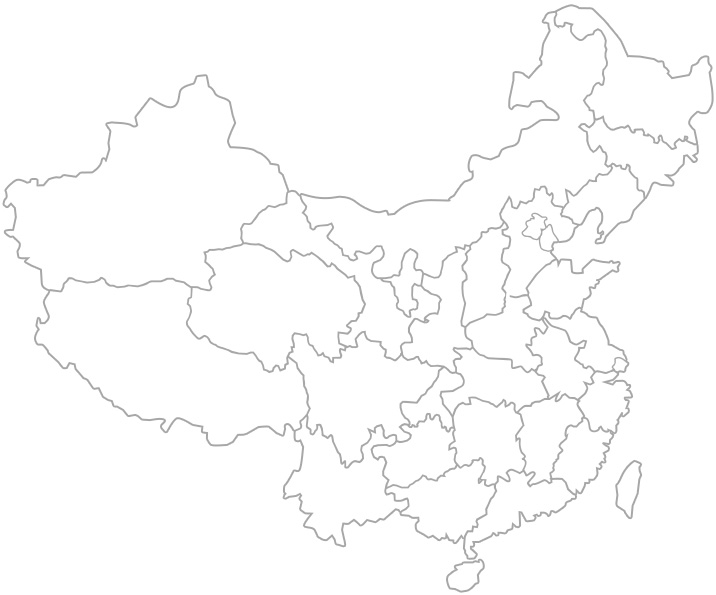
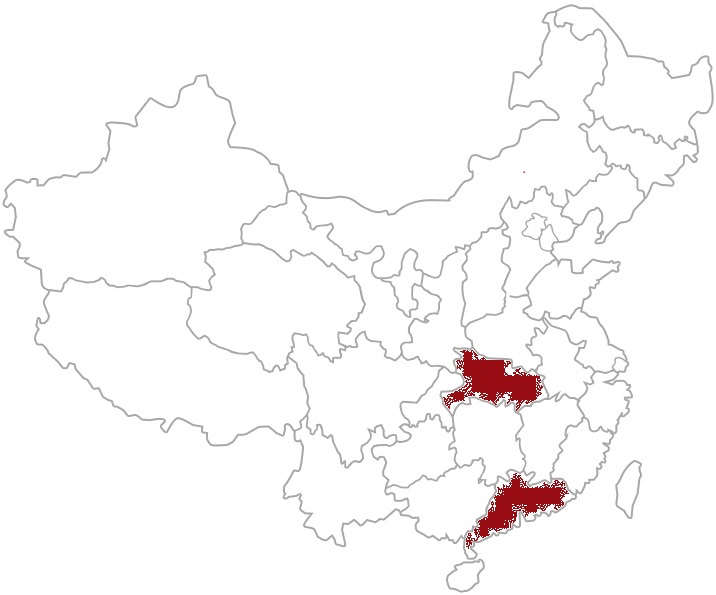
3130559

Changed region(s): [[0.6145, 0.5748, 0.7682, 0.6958], [0.6453, 0.7866, 0.7989, 0.9378]]

diff --git a/疫情统计可视化的实现/index.html b/疫情统计可视化的实现/index.html
@@ -17,8 +17,8 @@
 
 </head> 
 <body>
-	<center>
-	<table width="450" height="180">
+
+	<table id="table1" align="center" width="450" height="180"><center>
 		<tr>
 		  <td align="center">现有确诊</td>
 		  <td align="center">现有疑似</td>
@@ -33,58 +33,76 @@
 			<td align="center">昨日-1609</td>
 			<td align="center">昨日+99</td>
 			<td align="center">昨日-248</td>
-		</tr>
+		</tr></center>
+	</table>
+	<table id="table2" align="center" width="450" height="180"><center>
 		<tr>
 			<td align="center">累计确诊</td>
 			<td align="center">累计治愈</td>
 			<td align="center">累计死亡</td>
 		</tr>
 		<tr>
-			<td align="center">100</td>
-			<td align="center">200</td>
-			<td align="center">300</td>
+			<td align="center"><font size="5" color="red">80814</font></td>
+			<td align="center"><font size="5" color="sky blue">55477</font></td>
+			<td align="center"><font size="5" color="black">3073</font></td>
 		</tr>
 		<tr>
-		  <td align="center">400</td>
-		  <td align="center">500</td>
-		  <td align="center">600</td>
-		</tr>
+		  <td align="center">昨日+103</td>
+		  <td align="center">昨日+1684</td>
+		  <td align="center">昨日+28</td>
+		</tr></center>
 	</table>
-</center>
+	<script type="text/javascript">
+		function toggle(id){
+	     var tb1=document.getElementById("table1");
+		 var tb2=document.getElementById("table2");
+		 if(id=="table1"){
+			tb1.style.display='block';
+			tb2.style.display='none';
+		 }
+		 if(id=="table2"){
+			tb2.style.display='block';
+			tb1.style.display='none';
+		 }
+		}
+	</script><center>
+	<input type="button" value="现有确诊" style="height:60px;width:600px;" onClick="toggle('table1')"/>
+	<input type="button" value="累计确诊" style="height:60px;width:600px;"onClick="toggle('table2')"/>
+    </center>
 <div class="map">
 	<img src="images/map.jpg" width="716" height="595" usemap="#Map" border="0">
-	<div class="city"><div class="citybg" style="background:url(images/anhui.png) no-repeat 0 0; top:314px; left:523px; width:75px; height:90px;"></div><a style=" position:absolute; top:355px; left:545px; z-index:10;" href="index.html">安徽</a></div>
-	<div class="city"><div class="citybg" style="background:url(images/neimeng.png) no-repeat 0 0;  top:9px; left:296px; width:318px; height:272px; display:block;"></div><a style="position:absolute; top:211px; left:424px; z-index:10;" href="index.html">内蒙</a></div>
-	<div class="city"><div class="citybg" style=" background:url(images/heilongjiang.png) no-repeat 0 0; top:1px; left:550px; width:165px; height:151px;"></div><a style="position:absolute;top:81px; left:624px; z-index:10;" href="index.html">黑龙江</a></div>
-	<div class="city"><div class="citybg" style=" background:url(images/xinjiang.png) no-repeat 0 0; top:73px; left:0px; width:292px; height:223px;"></div><a style="position:absolute;top:211px; left:124px; z-index:10;" href="index.html">新疆</a></div>
-	<div class="city"><div class="citybg" style=" background:url(images/xizang.png) no-repeat 0 0; top:275px; left:31px; width:281px; height:175px;"></div><a style="position:absolute;top:361px; left:145px; z-index:10;" href="index.html">西藏</a></div>
-	<div class="city"><div class="citybg" style=" background:url(images/qinghai.png) no-repeat 0 0; top:240px; left:182px; width:185px; height:135px;"></div><a style="position:absolute;top:300px; left:254px; z-index:10;" href="index.html">青海</a></div>
-	<div class="city"><div class="citybg" style=" background:url(images/gansu.png) no-repeat 0 0; top:187px; left:236px; width:207px; height:177px;"></div><a style="position:absolute;top:310px; left:364px; z-index:10;" href="index.html">甘肃</a></div>
-	<div class="city"><div class="citybg" style=" background:url(images/ningxia.png) no-repeat 0 0; top:245px; left:379px; width:49px; height:75px;"></div><a style="position:absolute;top:272px; left:390px; z-index:10;" href="index.html">宁夏</a></div>
-	<div class="city"><div class="citybg" style=" background:url(images/shanghai.png) no-repeat 0 0; top:354px; left:610px; width:23px; height:22px;"></div><a style="position:absolute;top:352px; left:615px;; z-index:10;" href="index.html">上海</a></div>
-	<div class="city"><div class="citybg" style=" background:url(images/liaoning.png) no-repeat 0 0; top:161px; left:557px; width:91px; height:87px;"></div><a style="position:absolute;top:180px; left:600px; z-index:10;" href="index.html">辽宁</a></div>
-	<div class="city"><div class="citybg" style=" background:url(images/guangdong.png) no-repeat 0 0; top:470px; left:464px; width:111px; height:88px;"></div><a style="position:absolute;top:490px; left:500px; z-index:10;" href="index.html">广东</a></div>
-	<div class="city"><div class="citybg" style=" background:url(images/guangxi.png) no-repeat 0 0; top:454px; left:382px; width:118px; height:92px;"></div><a style="position:absolute;top:488px; left:432px; z-index:10;" href="index.html">广西</a></div>
-	<div class="city"><div class="citybg" style=" background:url(images/henan.png) no-repeat 0 0; top:288px; left:461px; width:118px; height:92px;"></div><a style="position:absolute;top:320px; left:490px; z-index:10;" href="index.html">河南</a></div>
-	<div class="city"><div class="citybg" style=" background:url(images/shanxi.png) no-repeat 0 0; top:242px; left:396px; width:79px; height:134px;"></div><a style="position:absolute;top:321px; left:430px; z-index:10;" href="index.html">陕西</a></div>
-	<div class="city"><div class="citybg" style=" background:url(images/shanxi2.png) no-repeat 0 0; top:219px; left:458px; width:56px; height:112px;"></div><a style="position:absolute;top:271px; left:470px; z-index:10;" href="index.html">山西</a></div>
-	<div class="city"><div class="citybg" style=" background:url(images/hebei.png) no-repeat 0 0; top:184px; left:497px; width:85px; height:118px;"></div><a style="position:absolute;top:247px; left:508px; z-index:10;" href="index.html">河北</a></div>
-	<div class="city"><div class="citybg" style=" background:url(images/jilin.png) no-repeat 0 0; top:113px; left:575px; width:125px; height:88px;"></div><a style="position:absolute;top:150px; left:642px; z-index:10;" href="index.html">吉林</a></div>
-	<div class="city"><div class="citybg" style=" background:url(images/beijing.png) no-repeat 0 0; top:210px; left:512px; width:50px; height:38px;"></div><a style="position:absolute;top:215px; left:515px; z-index:10;" href="index.html">北京</a></div>
-	<div class="city"><div class="citybg" style=" background:url(images/tianjin.png) no-repeat 0 0; top:224px; left:535px; width:26px; height:34px;"></div><a style="position:absolute;top:229px; left:535px; z-index:10;" href="index.html">天津</a></div>
-	<div class="city"><div class="citybg" style=" background:url(images/shandong.png) no-repeat 0 0; top:256px; left:521px; width:103px; height:68px;"></div><a style="position:absolute;top:281px; left:540px; z-index:10;" href="index.html">山东</a></div>
-	<div class="city"><div class="citybg" style=" background:url(images/jiangsu.png) no-repeat 0 0; top:305px; left:539px; width:93px; height:72px;"></div><a style="position:absolute;top:321px; left:570px; z-index:10;" href="index.html">江苏</a></div> 
-	<div class="city"><div class="citybg" style=" background:url(images/hainan.png) no-repeat 0 0; top:556px; left:442px; width:89px; height:88px;"></div><a style="position:absolute;top:565px; left:450px; z-index:10;" href="index.html">海南</a></div>  
-	<div class="city"><div class="citybg" style=" background:url(images/hubei.png) no-repeat 0 0; top:345px; left:438px; width:115px; height:75px;"></div><a style="position:absolute;top:365px; left:480px; z-index:10;" href="index.html">湖北</a></div>
-	<div class="city"><div class="citybg" style=" background:url(images/yunnan.png) no-repeat 0 0; top:412px; left:280px; width:132px; height:138px;"></div><a style="position:absolute;top:485px; left:320px; z-index:10;" href="index.html">云南</a></div>
-	<div class="city"><div class="citybg" style=" background:url(images/sichuan.png) no-repeat 0 0; top:328px; left:284px; width:161px; height:143px;"></div><a style="position:absolute;top:385px; left:345px; z-index:10;" href="index.html">四川</a></div>
-	<div class="city"><div class="citybg" style=" background:url(images/guizhou.png) no-repeat 0 0; top:409px; left:367px; width:93px; height:81px;"></div><a style="position:absolute;top:445px; left:405px; z-index:10;" href="index.html">贵州</a></div> 
-	<div class="city"><div class="citybg" style=" background:url(images/taiwan.png) no-repeat 0 0; top:456px; left:613px; width:32px; height:65px;"></div><a style="position:absolute;top:475px; left:620px; z-index:10;" href="index.html">台湾</a></div>
-	<div class="city"><div class="citybg" style=" background:url(images/fujian.png) no-repeat 0 0; top:415px; left:548px; width:70px; height:84px;"></div><a style="position:absolute;top:445px; left:565px; z-index:10;" href="index.html">福建</a></div>
-	<div class="city"><div class="citybg" style=" background:url(images/hunan.png) no-repeat 0 0; top:394px; left:445px; width:83px; height:96px;"></div><a style="position:absolute;top:425px; left:475px; z-index:10;" href="index.html">湖南</a></div>
-	<div class="city"><div class="citybg" style=" background:url(images/zhejiang.png) no-repeat 0 0; top:367px; left:574px; width:62px; height:70px;"></div><a style="position:absolute;top:395px; left:588px; z-index:10;" href="index.html">浙江</a></div>
-	<div class="city"><div class="citybg" style=" background:url(images/jiangxi.png) no-repeat 0 0; top:390px; left:513px; width:76px; height:98px;"></div><a style="position:absolute;top:425px; left:525px; z-index:10;" href="index.html">江西</a></div>
-	<div class="city"><div class="citybg" style=" background:url(images/chongqing.png) no-repeat 0 0; top:363px; left:397px; width:70px; height:80px;"></div><a style="position:absolute;top:390px; left:420px; z-index:10;" href="index.html">重庆</a></div>
+	<div class="city"><div class="citybg" style="background:url(images/anhui.png) no-repeat 0 0; top:314px; left:523px; width:75px; height:90px;"></div><a style=" position:absolute; top:355px; left:545px; z-index:10;" href="index.html"><div title="地区：安徽&#10;确诊：1000人&#10;">安徽</div></a></div>
+	<div class="city"><div class="citybg" style="background:url(images/neimeng.png) no-repeat 0 0;  top:9px; left:296px; width:318px; height:272px;"></div><a style="position:absolute; top:211px; left:424px; z-index:10;" href="index.html"><div title="地区：内蒙&#10;确诊：1000人&#10;">内蒙</div></a></div>
+	<div class="city"><div class="citybg" style=" background:url(images/heilongjiang.png) no-repeat 0 0; top:1px; left:550px; width:165px; height:151px;"></div><a style="position:absolute;top:81px; left:624px; z-index:10;" href="index.html"><div title="地区：黑龙江&#10;确诊：1000人&#10;">黑龙江</div></a></div>
+	<div class="city"><div class="citybg" style=" background:url(images/xinjiang.png) no-repeat 0 0; top:73px; left:0px; width:292px; height:223px;"></div><a style="position:absolute;top:211px; left:124px; z-index:10;" href="index.html"><div title="地区：新疆&#10;确诊：1000人&#10;">新疆</div></a></div>
+	<div class="city"><div class="citybg" style=" background:url(images/xizang.png) no-repeat 0 0; top:275px; left:31px; width:281px; height:175px;"></div><a style="position:absolute;top:361px; left:145px; z-index:10;" href="index.html"><div title="地区：西藏&#10;确诊：1000人&#10;">西藏</div></a></div>
+	<div class="city"><div class="citybg" style=" background:url(images/qinghai.png) no-repeat 0 0; top:240px; left:182px; width:185px; height:135px;"></div><a style="position:absolute;top:300px; left:254px; z-index:10;" href="index.html"><div title="地区：青海&#10;确诊：1000人&#10;">青海</div></a></div>
+	<div class="city"><div class="citybg" style=" background:url(images/gansu.png) no-repeat 0 0; top:187px; left:236px; width:207px; height:177px;"></div><a style="position:absolute;top:310px; left:364px; z-index:10;" href="index.html"><div title="地区：甘肃&#10;确诊：1000人&#10;">甘肃</div></a></div>
+	<div class="city"><div class="citybg" style=" background:url(images/ningxia.png) no-repeat 0 0; top:245px; left:379px; width:49px; height:75px;"></div><a style="position:absolute;top:272px; left:390px; z-index:10;" href="index.html"><div title="地区：宁夏&#10;确诊：1000人&#10;">宁夏</div></a></div>
+	<div class="city"><div class="citybg" style=" background:url(images/shanghai.png) no-repeat 0 0; top:354px; left:610px; width:23px; height:22px;"></div><a style="position:absolute;top:352px; left:615px;; z-index:10;" href="index.html"><div title="地区：上海&#10;确诊：1000人&#10;">上海</div></a></div>
+	<div class="city"><div class="citybg" style=" background:url(images/liaoning.png) no-repeat 0 0; top:161px; left:557px; width:91px; height:87px;"></div><a style="position:absolute;top:180px; left:600px; z-index:10;" href="index.html"><div title="地区：辽宁&#10;确诊：1000人&#10;">辽宁</div></a></div>
+	<div class="city"><div class="citybg" style=" background:url(images/guangdong.png) no-repeat 0 0; top:470px; left:464px; width:111px; height:88px;"></div><a style="position:absolute;top:490px; left:500px; z-index:10;" href="index.html"><div title="地区：广东&#10;确诊：1000人&#10;">广东</div></a></div>
+	<div class="city"><div class="citybg" style=" background:url(images/guangxi.png) no-repeat 0 0; top:454px; left:382px; width:118px; height:92px;"></div><a style="position:absolute;top:488px; left:432px; z-index:10;" href="index.html"><div title="地区：广西&#10;确诊：1000人&#10;">广西</div></a></div>
+	<div class="city"><div class="citybg" style=" background:url(images/henan.png) no-repeat 0 0; top:288px; left:461px; width:118px; height:92px;"></div><a style="position:absolute;top:320px; left:490px; z-index:10;" href="index.html"><div title="地区：河南&#10;确诊：1000人&#10;">河南</div></a></div>
+	<div class="city"><div class="citybg" style=" background:url(images/shanxi.png) no-repeat 0 0; top:242px; left:396px; width:79px; height:134px;"></div><a style="position:absolute;top:321px; left:430px; z-index:10;" href="index.html"><div title="地区：陕西&#10;确诊：1000人&#10;">陕西</div></a></div>
+	<div class="city"><div class="citybg" style=" background:url(images/shanxi2.png) no-repeat 0 0; top:219px; left:458px; width:56px; height:112px;"></div><a style="position:absolute;top:271px; left:470px; z-index:10;" href="index.html"><div title="地区：山西&#10;确诊：1000人&#10;">山西</div></a></div>
+	<div class="city"><div class="citybg" style=" background:url(images/hebei.png) no-repeat 0 0; top:184px; left:497px; width:85px; height:118px;"></div><a style="position:absolute;top:247px; left:508px; z-index:10;" href="index.html"><div title="地区：河北&#10;确诊：1000人&#10;">河北</div></a></div>
+	<div class="city"><div class="citybg" style=" background:url(images/jilin.png) no-repeat 0 0; top:113px; left:575px; width:125px; height:88px;"></div><a style="position:absolute;top:150px; left:642px; z-index:10;" href="index.html"><div title="地区：吉林&#10;确诊：1000人&#10;">吉林</div></a></div>
+	<div class="city"><div class="citybg" style=" background:url(images/beijing.png) no-repeat 0 0; top:210px; left:512px; width:50px; height:38px;"></div><a style="position:absolute;top:215px; left:515px; z-index:10;" href="index.html"><div title="地区：北京&#10;确诊：1000人&#10;">北京</div></a></div>
+	<div class="city"><div class="citybg" style=" background:url(images/tianjin.png) no-repeat 0 0; top:224px; left:535px; width:26px; height:34px;"></div><a style="position:absolute;top:229px; left:535px; z-index:10;" href="index.html"><div title="地区：天津&#10;确诊：1000人&#10;">天津</div></a></div>
+	<div class="city"><div class="citybg" style=" background:url(images/shandong.png) no-repeat 0 0; top:256px; left:521px; width:103px; height:68px;"></div><a style="position:absolute;top:281px; left:540px; z-index:10;" href="index.html"><div title="地区：山东&#10;确诊：1000人&#10;">山东</div></a></div>
+	<div class="city"><div class="citybg" style=" background:url(images/jiangsu.png) no-repeat 0 0; top:305px; left:539px; width:93px; height:72px;"></div><a style="position:absolute;top:321px; left:570px; z-index:10;" href="index.html"><div title="地区：江苏&#10;确诊：1000人&#10;">江苏</div></a></div> 
+	<div class="city"><div class="citybg" style=" background:url(images/hainan.png) no-repeat 0 0; top:556px; left:442px; width:89px; height:88px;"></div><a style="position:absolute;top:565px; left:450px; z-index:10;" href="index.html"><div title="地区：海南&#10;确诊：1000人&#10;">海南</div></a></div>  
+	<div class="city"><div class="citybg" style=" background:url(images/hubei.png) no-repeat 0 0; top:345px; left:438px; width:115px; height:75px;"></div><a style="position:absolute;top:365px; left:480px; z-index:10;" href="index.html"><div title="地区：湖北&#10;确诊：1000人&#10;">湖北</div></a></div>
+	<div class="city"><div class="citybg" style=" background:url(images/yunnan.png) no-repeat 0 0; top:412px; left:280px; width:132px; height:138px;"></div><a style="position:absolute;top:485px; left:320px; z-index:10;" href="index.html"><div title="地区：云南&#10;确诊：1000人&#10;">云南</div></a></div>
+	<div class="city"><div class="citybg" style=" background:url(images/sichuan.png) no-repeat 0 0; top:328px; left:284px; width:161px; height:143px;"></div><a style="position:absolute;top:385px; left:345px; z-index:10;" href="index.html"><div title="地区：四川&#10;确诊：1000人&#10;">四川</div></a></div>
+	<div class="city"><div class="citybg" style=" background:url(images/guizhou.png) no-repeat 0 0; top:409px; left:367px; width:93px; height:81px;"></div><a style="position:absolute;top:445px; left:405px; z-index:10;" href="index.html"><div title="地区：贵州&#10;确诊：1000人&#10;">贵州</div></a></div> 
+	<div class="city"><div class="citybg" style=" background:url(images/taiwan.png) no-repeat 0 0; top:456px; left:613px; width:32px; height:65px;"></div><a style="position:absolute;top:475px; left:620px; z-index:10;" href="index.html"><div title="地区：台湾&#10;确诊：1000人&#10;">台湾</div></a></div>
+	<div class="city"><div class="citybg" style=" background:url(images/fujian.png) no-repeat 0 0; top:415px; left:548px; width:70px; height:84px;"></div><a style="position:absolute;top:445px; left:565px; z-index:10;" href="index.html"><div title="地区：福建&#10;确诊：1000人&#10;">福建</div></a></div>
+	<div class="city"><div class="citybg" style=" background:url(images/hunan.png) no-repeat 0 0; top:394px; left:445px; width:83px; height:96px;"></div><a style="position:absolute;top:425px; left:475px; z-index:10;" href="index.html"><div title="地区：湖南&#10;确诊：1000人&#10;">湖南</div></a></div>
+	<div class="city"><div class="citybg" style=" background:url(images/zhejiang.png) no-repeat 0 0; top:367px; left:574px; width:62px; height:70px;"></div><a style="position:absolute;top:395px; left:588px; z-index:10;" href="index.html"><div title="地区：浙江&#10;确诊：1000人&#10;">浙江</div></a></div>
+	<div class="city"><div class="citybg" style=" background:url(images/jiangxi.png) no-repeat 0 0; top:390px; left:513px; width:76px; height:98px;"></div><a style="position:absolute;top:425px; left:525px; z-index:10;" href="index.html"><div title="地区：江西&#10;确诊：1000人&#10;">江西</div></a></div>
+	<div class="city"><div class="citybg" style=" background:url(images/chongqing.png) no-repeat 0 0; top:363px; left:397px; width:70px; height:80px;"></div><a style="position:absolute;top:390px; left:420px; z-index:10;" href="index.html"><div title="地区：重庆&#10;确诊：1000人&#10;">重庆</div></a></div>
 </div>
 
 <script src="js/jquery-1.11.0.min.js" type="text/javascript"></script>
